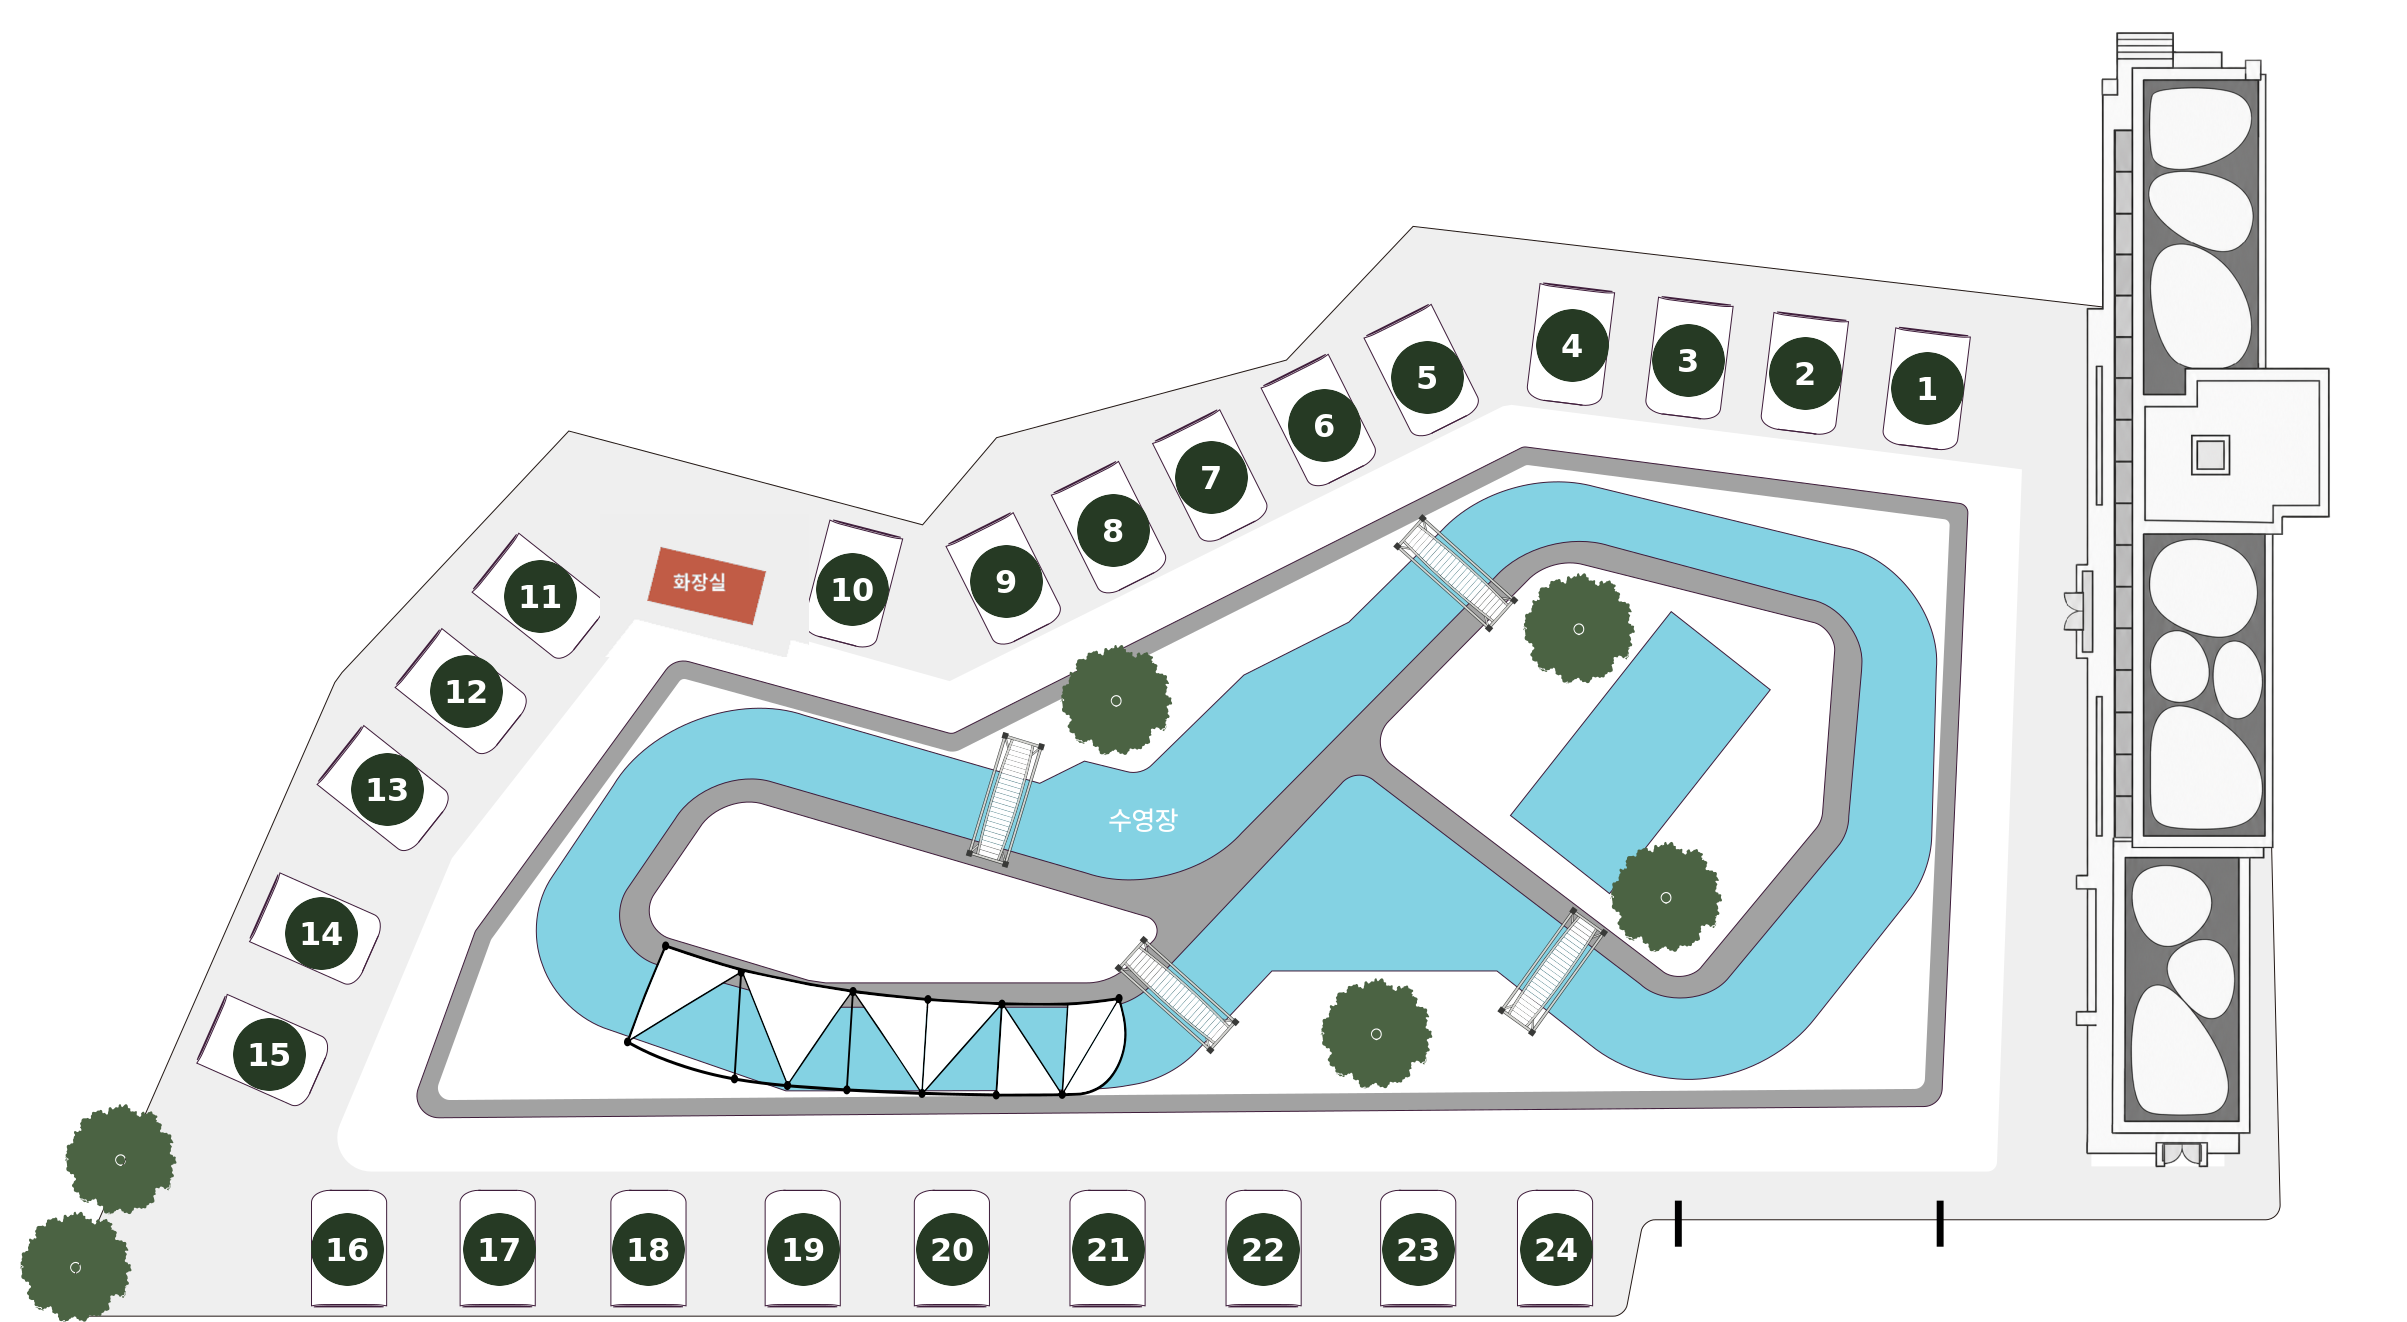
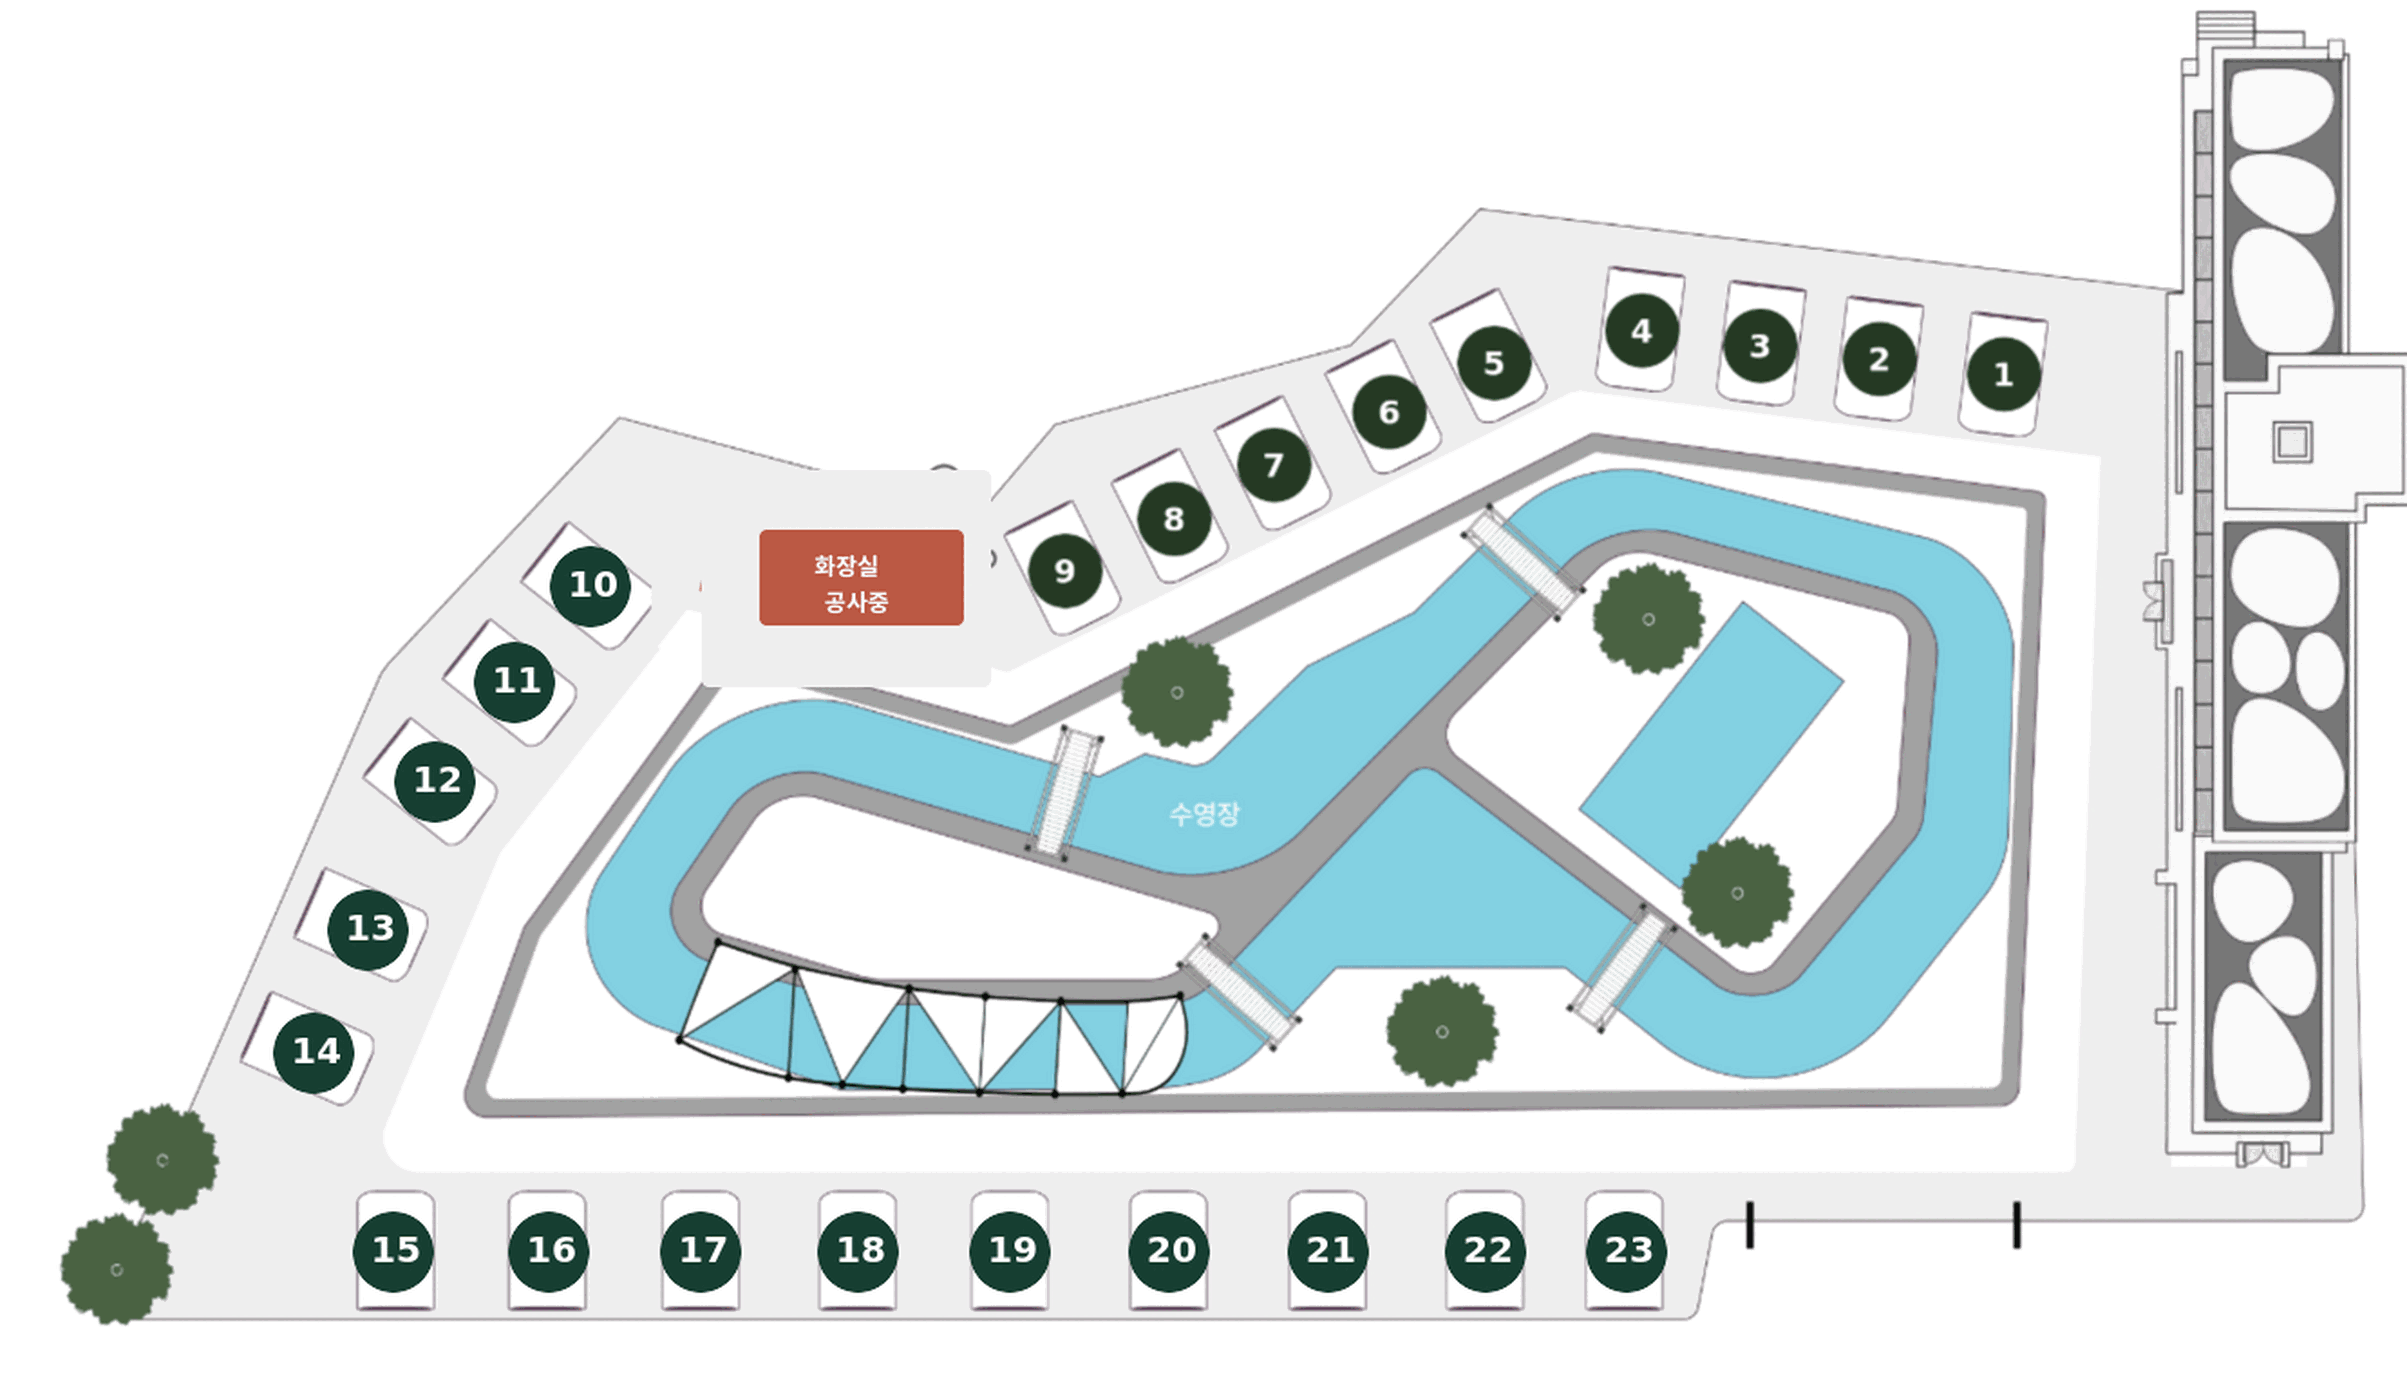
공간 안내 지도 쉘터 번호 및 화장실 공사 표기 수정

Changed region(s): [[0.0, 0.0, 1.0, 1.0], [0.2804, 0.3101, 0.3116, 0.3411]]

diff --git a/space.html b/space.html
@@ -5,32 +5,31 @@
   <div class="container">
     <div class="site-map" data-site-map>
       <div class="site-map-canvas">
-        <img src="assets/images/relim-site-map.png?v=20260730b" alt="상단 오른쪽 1번부터 왼쪽 방향으로 이어져 하단 24번까지 배치된 쉘터, 화장실과 수영장 위치를 표시한 리림 시설 안내도" width="2407" height="1322">
+        <img src="assets/images/relim-site-map.png?v=20260731c" alt="상단 오른쪽 1번부터 왼쪽 방향으로 이어져 하단 23번까지 배치된 쉘터, 공사 중인 화장실과 수영장 위치를 표시한 리림 시설 안내도" width="2407" height="1376">
         <div class="site-map-hotspots" aria-label="리림 쉘터 번호 선택">
-          <button class="site-hotspot" style="--x:80.05%;--y:29.35%" data-site="01" aria-label="리림 01번 쉘터"><span>01</span></button>
-          <button class="site-hotspot" style="--x:74.99%;--y:28.24%" data-site="02" aria-label="리림 02번 쉘터"><span>02</span></button>
-          <button class="site-hotspot" style="--x:70.13%;--y:27.25%" data-site="03" aria-label="리림 03번 쉘터"><span>03</span></button>
-          <button class="site-hotspot" style="--x:65.29%;--y:26.11%" data-site="04" aria-label="리림 04번 쉘터"><span>04</span></button>
-          <button class="site-hotspot" style="--x:59.26%;--y:28.48%" data-site="05" aria-label="리림 05번 쉘터"><span>05</span></button>
-          <button class="site-hotspot" style="--x:55.00%;--y:32.11%" data-site="06" aria-label="리림 06번 쉘터"><span>06</span></button>
-          <button class="site-hotspot" style="--x:50.34%;--y:36.10%" data-site="07" aria-label="리림 07번 쉘터"><span>07</span></button>
-          <button class="site-hotspot" style="--x:46.23%;--y:40.10%" data-site="08" aria-label="리림 08번 쉘터"><span>08</span></button>
-          <button class="site-hotspot" style="--x:41.79%;--y:43.97%" data-site="09" aria-label="리림 09번 쉘터"><span>09</span></button>
-          <button class="site-hotspot" style="--x:35.39%;--y:44.56%" data-site="10" aria-label="리림 10번 쉘터"><span>10</span></button>
-          <button class="site-hotspot" style="--x:22.42%;--y:45.07%" data-site="11" aria-label="리림 11번 쉘터"><span>11</span></button>
-          <button class="site-hotspot" style="--x:19.35%;--y:52.28%" data-site="12" aria-label="리림 12번 쉘터"><span>12</span></button>
-          <button class="site-hotspot" style="--x:16.06%;--y:59.66%" data-site="13" aria-label="리림 13번 쉘터"><span>13</span></button>
-          <button class="site-hotspot" style="--x:13.34%;--y:70.56%" data-site="14" aria-label="리림 14번 쉘터"><span>14</span></button>
-          <button class="site-hotspot" style="--x:11.17%;--y:79.75%" data-site="15" aria-label="리림 15번 쉘터"><span>15</span></button>
-          <button class="site-hotspot" style="--x:14.43%;--y:94.45%" data-site="16" aria-label="리림 16번 쉘터"><span>16</span></button>
-          <button class="site-hotspot" style="--x:20.72%;--y:94.45%" data-site="17" aria-label="리림 17번 쉘터"><span>17</span></button>
-          <button class="site-hotspot" style="--x:26.92%;--y:94.45%" data-site="18" aria-label="리림 18번 쉘터"><span>18</span></button>
-          <button class="site-hotspot" style="--x:33.35%;--y:94.45%" data-site="19" aria-label="리림 19번 쉘터"><span>19</span></button>
-          <button class="site-hotspot" style="--x:39.55%;--y:94.45%" data-site="20" aria-label="리림 20번 쉘터"><span>20</span></button>
-          <button class="site-hotspot" style="--x:46.03%;--y:94.45%" data-site="21" aria-label="리림 21번 쉘터"><span>21</span></button>
-          <button class="site-hotspot" style="--x:52.48%;--y:94.45%" data-site="22" aria-label="리림 22번 쉘터"><span>22</span></button>
-          <button class="site-hotspot" style="--x:58.93%;--y:94.45%" data-site="23" aria-label="리림 23번 쉘터"><span>23</span></button>
-          <button class="site-hotspot" style="--x:64.65%;--y:94.45%" data-site="24" aria-label="리림 24번 쉘터"><span>24</span></button>
+          <button class="site-hotspot" style="--x:83.23%;--y:27.13%" data-site="01" aria-label="리림 01번 쉘터"><span>01</span></button>
+          <button class="site-hotspot" style="--x:78.06%;--y:26.02%" data-site="02" aria-label="리림 02번 쉘터"><span>02</span></button>
+          <button class="site-hotspot" style="--x:73.10%;--y:25.06%" data-site="03" aria-label="리림 03번 쉘터"><span>03</span></button>
+          <button class="site-hotspot" style="--x:68.20%;--y:23.96%" data-site="04" aria-label="리림 04번 쉘터"><span>04</span></button>
+          <button class="site-hotspot" style="--x:62.06%;--y:26.32%" data-site="05" aria-label="리림 05번 쉘터"><span>05</span></button>
+          <button class="site-hotspot" style="--x:57.70%;--y:29.96%" data-site="06" aria-label="리림 06번 쉘터"><span>06</span></button>
+          <button class="site-hotspot" style="--x:52.91%;--y:33.77%" data-site="07" aria-label="리림 07번 쉘터"><span>07</span></button>
+          <button class="site-hotspot" style="--x:48.76%;--y:37.71%" data-site="08" aria-label="리림 08번 쉘터"><span>08</span></button>
+          <button class="site-hotspot" style="--x:44.24%;--y:41.42%" data-site="09" aria-label="리림 09번 쉘터"><span>09</span></button>
+          <button class="site-hotspot" style="--x:24.51%;--y:42.52%" data-site="10" aria-label="리림 10번 쉘터"><span>10</span></button>
+          <button class="site-hotspot" style="--x:21.36%;--y:49.54%" data-site="11" aria-label="리림 11번 쉘터"><span>11</span></button>
+          <button class="site-hotspot" style="--x:18.03%;--y:56.77%" data-site="12" aria-label="리림 12번 쉘터"><span>12</span></button>
+          <button class="site-hotspot" style="--x:15.22%;--y:67.54%" data-site="13" aria-label="리림 13번 쉘터"><span>13</span></button>
+          <button class="site-hotspot" style="--x:13.00%;--y:76.48%" data-site="14" aria-label="리림 14번 쉘터"><span>14</span></button>
+          <button class="site-hotspot" style="--x:16.30%;--y:90.88%" data-site="15" aria-label="리림 15번 쉘터"><span>15</span></button>
+          <button class="site-hotspot" style="--x:22.76%;--y:90.88%" data-site="16" aria-label="리림 16번 쉘터"><span>16</span></button>
+          <button class="site-hotspot" style="--x:29.08%;--y:90.88%" data-site="17" aria-label="리림 17번 쉘터"><span>17</span></button>
+          <button class="site-hotspot" style="--x:35.61%;--y:90.88%" data-site="18" aria-label="리림 18번 쉘터"><span>18</span></button>
+          <button class="site-hotspot" style="--x:41.92%;--y:90.88%" data-site="19" aria-label="리림 19번 쉘터"><span>19</span></button>
+          <button class="site-hotspot" style="--x:48.54%;--y:90.88%" data-site="20" aria-label="리림 20번 쉘터"><span>20</span></button>
+          <button class="site-hotspot" style="--x:55.15%;--y:90.88%" data-site="21" aria-label="리림 21번 쉘터"><span>21</span></button>
+          <button class="site-hotspot" style="--x:61.68%;--y:90.88%" data-site="22" aria-label="리림 22번 쉘터"><span>22</span></button>
+          <button class="site-hotspot" style="--x:67.54%;--y:90.88%" data-site="23" aria-label="리림 23번 쉘터"><span>23</span></button>
         </div>
       </div>
 
@@ -49,14 +48,14 @@
       <div>
         <button type="button" data-site-range="01-09" class="is-active">01–09</button>
         <button type="button" data-site-range="10-14">10–14</button>
-        <button type="button" data-site-range="15-24">15–24</button>
+        <button type="button" data-site-range="15-23">15–23</button>
       </div>
     </div>
 
     <div class="number-list map-facilities">
       <div class="number-row"><span class="num">A</span><h3>Pool & Water</h3><p>지도 중앙의 수영장과 수로입니다. 계절과 현장 운영 상황에 따라 이용 범위가 달라질 수 있습니다.</p></div>
-      <div class="number-row"><span class="num">B</span><h3>Individual Shelter</h3><p>01번부터 24번까지 일행별로 배정되는 개별 쉘터입니다. 예약 확정 안내에서 배정 위치를 확인해 주세요.</p></div>
-      <div class="number-row"><span class="num">C</span><h3>화장실</h3><p>쉘터 10번과 11번 사이의 독립된 공간에 위치한 공용 화장실입니다.</p></div>
+      <div class="number-row"><span class="num">B</span><h3>Individual Shelter</h3><p>01번부터 23번까지 일행별로 배정되는 개별 쉘터입니다. 예약 확정 안내에서 배정 위치를 확인해 주세요.</p></div>
+      <div class="number-row"><span class="num">C</span><h3>화장실 공사중</h3><p>지도에 표시된 화장실은 현재 공사 중이며 이용이 어렵습니다. 현장 안내를 확인해 주세요.</p></div>
     </div>
   </div>
 </section></main>

diff --git a/assets/js/script.js b/assets/js/script.js
@@ -35,7 +35,7 @@ function initSiteMap() {
 
   const getArea = (site) => {
     const number = Number(site);
-    if (number <= 10) {
+    if (number <= 9) {
       return '수영장 위쪽 산책 동선을 따라 배치된 개별 이용 쉘터입니다. 예약 안내에 표기된 번호와 대조해 주세요.';
     }
     if (number <= 15) {
